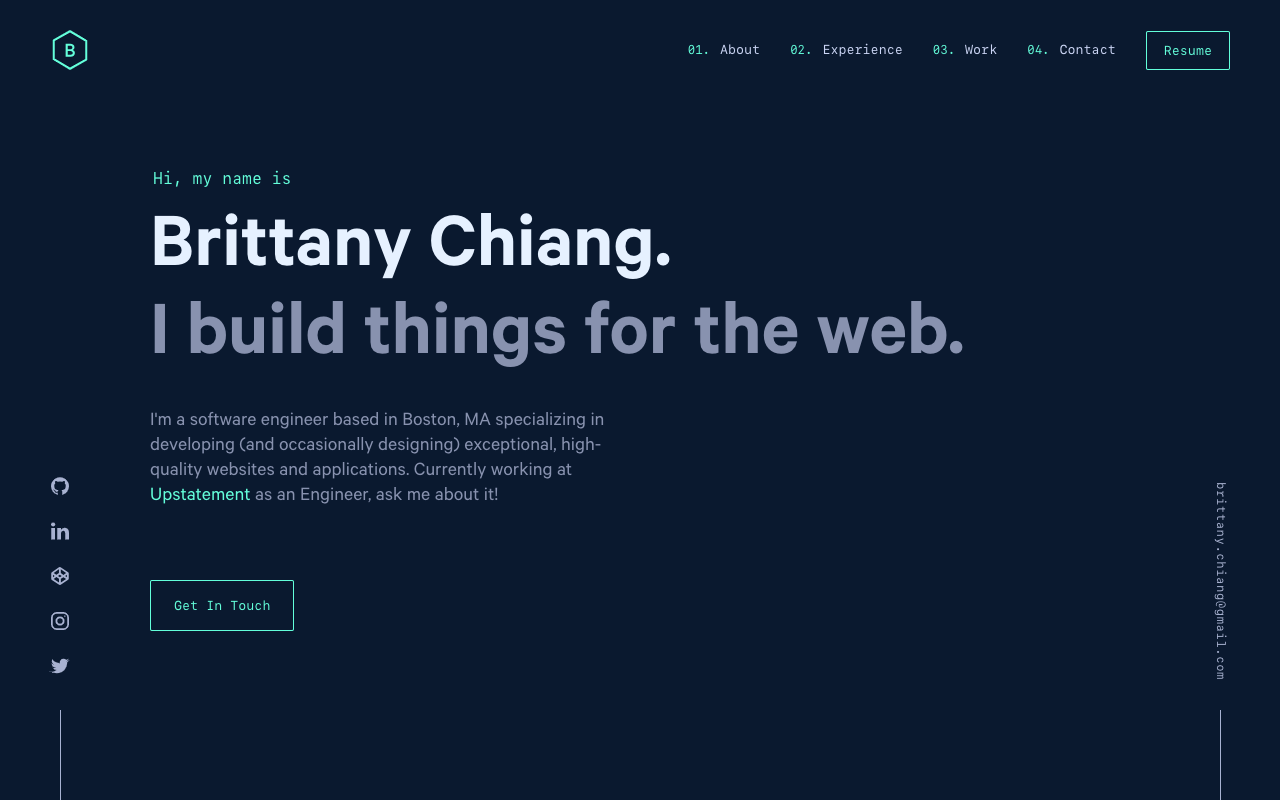
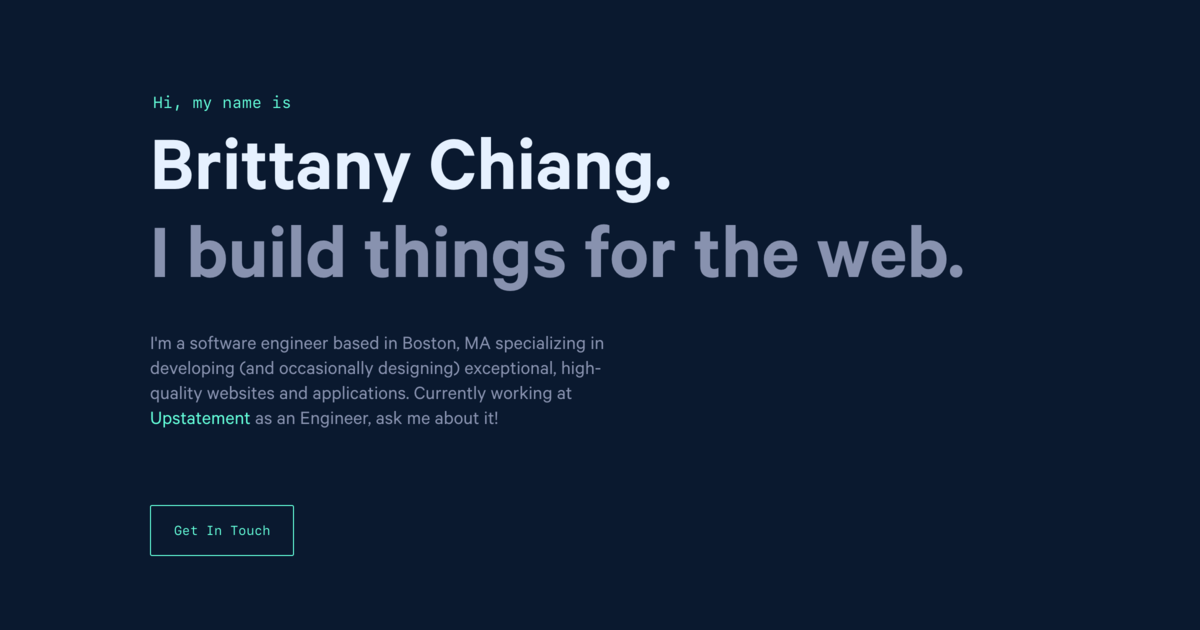
Update og images and fix meta tags

diff --git a/src/components/head.js b/src/components/head.js
@@ -21,33 +21,33 @@ import msIcon144x144 from '../../static/favicons/ms-icon-144x144.png';
 
 const Head = ({ metaData }) => (
   <Helmet>
-    <html lang="en" />
+    <html lang="en" prefix="og: http://ogp.me/ns#" />
     <title itemProp="name" lang="en">
       {metaData.title}
     </title>
     <link rel="icon" type="image/png" href={logo} />
-    <meta name="metaData.description" content={metaData.description} />
+    <meta name="description" content={metaData.description} />
     <meta name="keywords" content={config.siteKeywords} />
     <meta name="google-site-verification" content={config.googleVerification} />
-    <meta property="og:metaData.title" content={metaData.title} />
-    <meta property="og:metaData.description" content={metaData.description} />
+    <meta property="og:title" content={metaData.title} />
+    <meta property="og:description" content={metaData.description} />
     <meta property="og:type" content="website" />
     <meta property="og:url" content={metaData.siteUrl} />
     <meta property="og:site_name" content={metaData.title} />
     <meta property="og:image" content={config.siteImage} />
-    <meta property="og:image:width" content="1280" />
-    <meta property="og:image:height" content="800" />
+    <meta property="og:image:width" content="1200" />
+    <meta property="og:image:height" content="630" />
     <meta property="og:image:type" content="image/png" />
     <meta property="og:locale" content={config.siteLanguage} />
     <meta itemProp="name" content={metaData.title} />
-    <meta itemProp="metaData.description" content={metaData.description} />
+    <meta itemProp="description" content={metaData.description} />
     <meta itemProp="image" content={config.siteImage} />
-    <meta name="twitter:card" content="summary_large_image" />
+    <meta name="twitter:card" content="summary" />
     <meta name="twitter:url" content={metaData.siteUrl} />
     <meta name="twitter:site" content={config.twitterHandle} />
     <meta name="twitter:creator" content={config.twitterHandle} />
-    <meta name="twitter:metaData.title" content={metaData.title} />
-    <meta name="twitter:metaData.description" content={metaData.description} />
+    <meta name="twitter:title" content={metaData.title} />
+    <meta name="twitter:description" content={metaData.description} />
     <meta name="twitter:image:src" content={config.siteImage} />
     <meta name="twitter:image:alt" content={metaData.title} />
 
